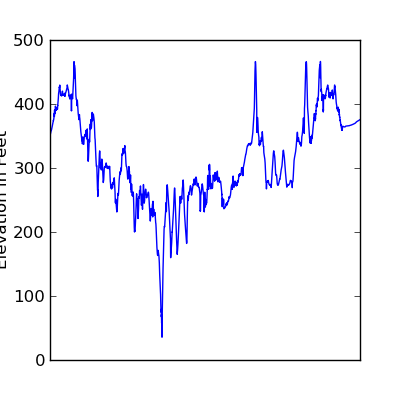
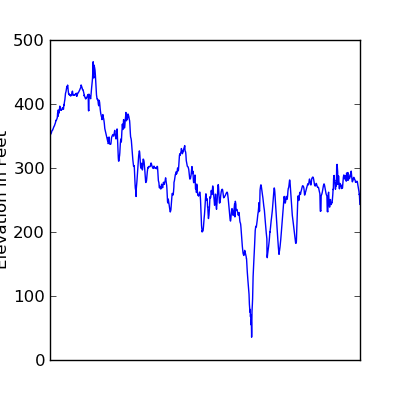
Posted day -26 via preProcessor

Changed region(s): [[0.12, 0.15, 0.9, 0.84]]

diff --git a/_posts/2011-4-23-Day-26.html b/_posts/2011-4-23-Day-26.html
@@ -1,0 +1,24 @@
+---
+layout: log
+title: Day -26
+category: daily
+---
+<p>Met up with Will Bartlett in at the Caboose in Vienna for a nice, hilly ride
+through McLean and Arlington. Lots of steep grades, two bananas. We initially
+planned on going a leisurely pace, but we didn't.</p>
+<p>Things to note:</p>
+<ul>
+<li>
+<p>James was "too tired" to go biking since he was up until 4 a.m. the previous
+night.</p>
+</li>
+<li>
+<p>Some guy honked and flipped me the bird as he passed Will and I on a 25 mph
+road when we were going about 22 mph.</p>
+</li>
+</ul><div id="regularMap"/>
+<script type="text/javascript">
+   initializeMap("regularMap");
+   loadKML("http://maps.google.com/maps/ms?ie=UTF8&hl=en&msa=0&msid=203384579587508079739.0004a19a3b826d4790c92&z=12&output=kml");
+</script><img id="regularEle" class="elevation" src="/images/eleprof/2011-4-23.png"/>
+<p>%%%{'mapLoc':'http://maps.google.com/maps/ms?ie=UTF8&amp;hl=en&amp;msa=0&amp;msid=203384579587508079739.0004a19a3b826d4790c92&amp;z=12&amp;output=kml','date':'2011-4-23','title':'Day -26','size':(400,400)}</p>
